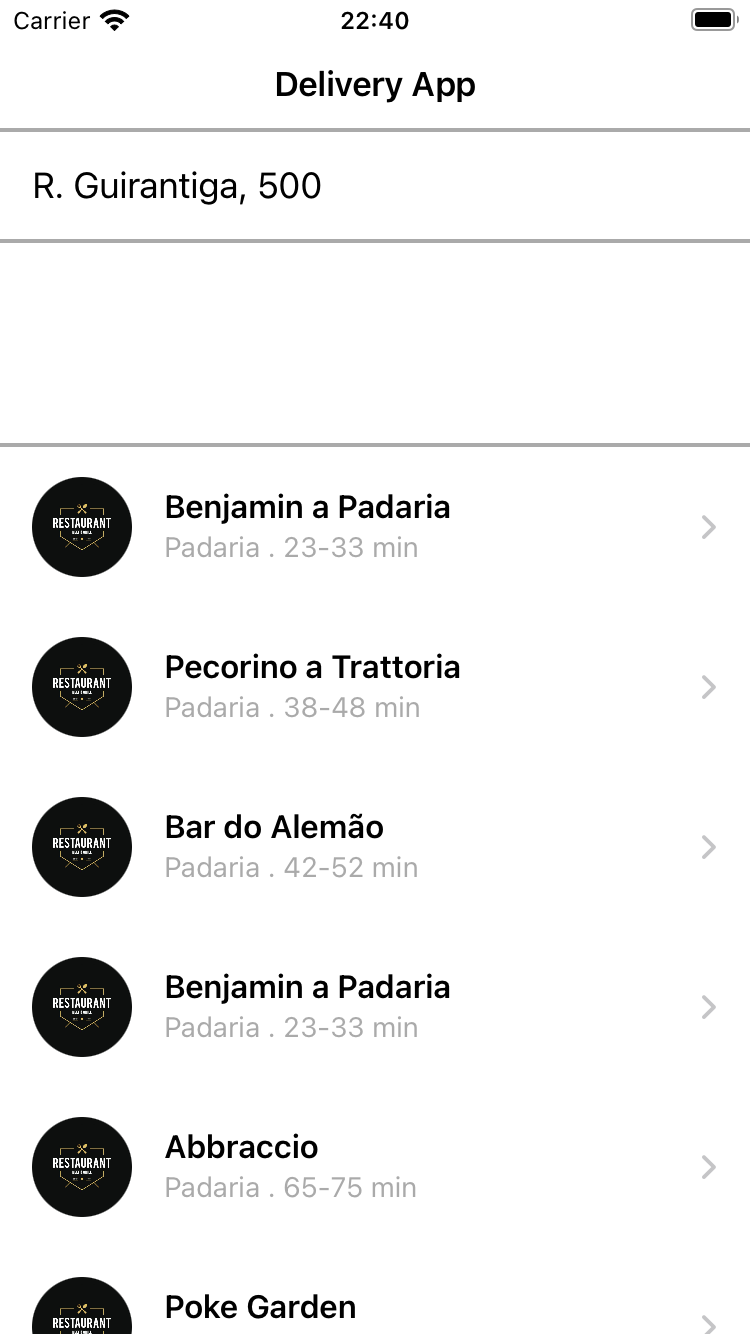
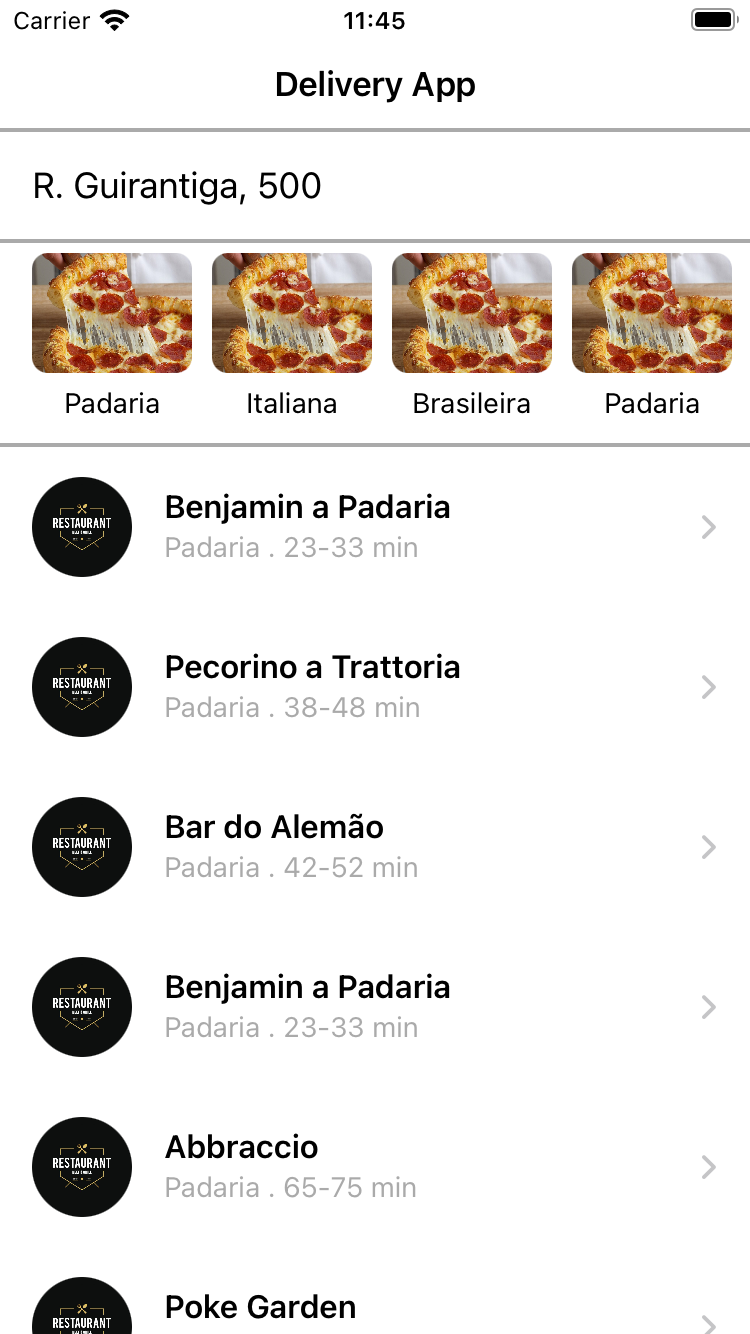
Add service in options and record news snapshots

Changed region(s): [[0.0307, 0.1844, 0.9813, 0.3073], [0.46, 0.0, 0.552, 0.0307]]

diff --git a/Home/Sources/Home/View/OptionsView.swift b/Home/Sources/Home/View/OptionsView.swift
@@ -11,10 +11,22 @@ import SketchKit
 
 final class OptionsView: UIView {
     
+    private let dataSource = OptionsDataSource()
+    
     private let cardView: UIView = {
         let view = UIView()
         view.backgroundColor = .white
         return view
+    }()
+    
+    private let collectionsView: UICollectionView = {
+        let flowLayout:UICollectionViewFlowLayout = UICollectionViewFlowLayout()
+        flowLayout.scrollDirection = .horizontal
+        
+        let collection = UICollectionView(frame: .zero, collectionViewLayout: flowLayout)
+        collection.backgroundColor = .white
+        collection.registerCell(cellType: OptionsCell.self)
+        return collection
     }()
     
     override init(frame: CGRect = .zero) {
@@ -26,11 +38,20 @@ final class OptionsView: UIView {
     required init?(coder _: NSCoder) {
         fatalError("init(coder:) has not been implemented")
     }
+    
+    func setup(data: [RestaurantsDTO]) {
+        dataSource.data = data
+        
+        collectionsView.dataSource = dataSource
+        collectionsView.delegate = dataSource
+        collectionsView.reloadData()
+    }
 }
 
 extension OptionsView: ViewCode {
     func buildViewHierarchy() {
         addSubview(cardView)
+        cardView.addSubview(collectionsView)
     }
     
     func setupConstraints() {
@@ -40,6 +61,13 @@ extension OptionsView: ViewCode {
             view.trailingAnchor(equalTo: trailingAnchor)
             view.bottomAnchor(equalTo: bottomAnchor)
             view.heightAnchor(equalToConstant: 100)
+        }
+        
+        collectionsView.layout.applyConstraint { view in
+            view.topAnchor(equalTo: cardView.topAnchor)
+            view.leadingAnchor(equalTo: cardView.leadingAnchor)
+            view.trailingAnchor(equalTo: cardView.trailingAnchor)
+            view.bottomAnchor(equalTo: cardView.bottomAnchor)
         }
     }
 }

diff --git a/Home/Sources/Home/View/Cell/OptionsCell.swift b/Home/Sources/Home/View/Cell/OptionsCell.swift
@@ -1,0 +1,65 @@
+//
+//  File.swift
+//  
+//
+//  Created by joao.lucas.f.pereira on 05/04/23.
+//
+
+import UIKit
+import Core
+import SketchKit
+import DesignSystem
+
+final class OptionsCell: UICollectionViewCell, Identifiable {
+    
+    private let logoImage: UIImageView = {
+        let imageView = UIImageView()
+        imageView.image = UIAssets.Home.pizza.image
+        imageView.layer.cornerRadius = 8
+        imageView.clipsToBounds = true
+        return imageView
+    }()
+    
+    private let textLabel: UILabel = {
+        var label = UILabel()
+        label.textColor = .black
+        label.font = UIFont.systemFont(ofSize: 14)
+        return label
+    }()
+    
+    override init(frame: CGRect) {
+        super.init(frame: frame)
+        setupBaseView()
+    }
+    
+    @available(*, unavailable)
+    required init?(coder: NSCoder) {
+        fatalError("init(coder:) has not been implemented")
+    }
+    
+    func setup(text: String) {
+        self.textLabel.text = text
+    }
+}
+
+extension OptionsCell: ViewCode {
+    func buildViewHierarchy() {
+        contentView.addSubview(logoImage)
+        contentView.addSubview(textLabel)
+    }
+    
+    func setupConstraints() {
+        logoImage.layout.applyConstraint { view in
+            view.topAnchor(equalTo: contentView.topAnchor)
+            view.leadingAnchor(equalTo: contentView.leadingAnchor)
+            view.trailingAnchor(equalTo: contentView.trailingAnchor)
+            view.heightAnchor(equalToConstant: 60)
+        }
+        
+        textLabel.layout.applyConstraint { view in
+            view.topAnchor(equalTo: logoImage.bottomAnchor)
+            view.bottomAnchor(equalTo: contentView.bottomAnchor)
+            view.centerXAnchor(equalTo: contentView.centerXAnchor)
+        }
+    }
+}

diff --git a/Home/Sources/Home/DataSource/OptionsDataSource.swift b/Home/Sources/Home/DataSource/OptionsDataSource.swift
@@ -1,0 +1,34 @@
+//
+//  OptionsDataSource.swift
+//  
+//
+//  Created by joao.lucas.f.pereira on 05/04/23.
+//
+
+import UIKit
+import Core
+
+final class OptionsDataSource: NSObject, UICollectionViewDataSource {
+    
+    var data: [RestaurantsDTO]?
+
+    func collectionView(_ collectionView: UICollectionView, numberOfItemsInSection section: Int) -> Int {
+        return data?.count ?? 0
+    }
+    
+    func collectionView(_ collectionView: UICollectionView, cellForItemAt indexPath: IndexPath) -> UICollectionViewCell {
+        let cell = collectionView.addCell(for: indexPath, cellType: OptionsCell.self)
+        cell.setup(text: data?[indexPath.row].category ?? "")
+        return cell
+    }
+}
+
+extension OptionsDataSource: UICollectionViewDelegateFlowLayout {
+    func collectionView(_ collectionView: UICollectionView, layout collectionViewLayout: UICollectionViewLayout, sizeForItemAt indexPath: IndexPath) -> CGSize {
+        return CGSize(width: 80, height: 90)
+    }
+
+    func collectionView(_ collectionView: UICollectionView, layout collectionViewLayout: UICollectionViewLayout, insetForSectionAt section: Int) -> UIEdgeInsets {
+        return UIEdgeInsets(top: 20, left: 16, bottom: 20, right: 16)
+    }
+}

diff --git a/Home/Tests/HomeTests/Views/OptionsViewTests.swift b/Home/Tests/HomeTests/Views/OptionsViewTests.swift
@@ -1,0 +1,29 @@
+//
+//  OptionsViewTests.swift
+//  
+//
+//  Created by joao.lucas.f.pereira on 05/04/23.
+//
+
+import UIKit
+import Quick
+import Nimble
+import Nimble_Snapshots
+@testable import Home
+
+final class OptionsViewTests: QuickSpec {
+    override func spec() {
+        describe("OptionsView") {
+            
+            it("should validate layout") {
+                let view = OptionsView(frame: CGRect(x: 0, y: 0, width: UIScreen.main.bounds.width, height: 100))
+                
+                let deliveryTime = DeliveryTime(min: 20, max: 30)
+                let restaurantDTO = RestaurantsDTO(name: "Bar do João", category: "Bar", deliveryTime: deliveryTime)
+                view.setup(data: [restaurantDTO, restaurantDTO, restaurantDTO, restaurantDTO, restaurantDTO])
+                
+                expect(view) == snapshot()
+            }
+        }
+    }
+}

diff --git a/Home/Sources/Home/Controller/HomeViewController.swift b/Home/Sources/Home/Controller/HomeViewController.swift
@@ -39,6 +39,7 @@ final class HomeViewController: UIViewController {
             guard let self = self else { return }
             switch result {
             case .success(let restaurants):
+                self.homeView.optionsView.setup(data: restaurants)
                 self.homeView.restaurantView.setup(data: restaurants)
             case .failure(let error):
                 debugPrint("Error - \(error)")

diff --git a/DesignSystem/Sources/DesignSystem/Resources/Assets.swift b/DesignSystem/Sources/DesignSystem/Resources/Assets.swift
@@ -10,6 +10,7 @@ import UIKit
 public enum UIAssets {
     public enum Home {
         public static let restaurant = ImageAsset(name: "Home/restaurant-logo")
+        public static let pizza = ImageAsset(name: "Home/pizza")
     }
 }
 

diff --git a/Home/Sources/Home/View/HomeView.swift b/Home/Sources/Home/View/HomeView.swift
@@ -1,5 +1,5 @@
 //
-//  File.swift
+//  HomeView.swift
 //  
 //
 //  Created by joao.lucas.f.pereira on 23/03/23.
